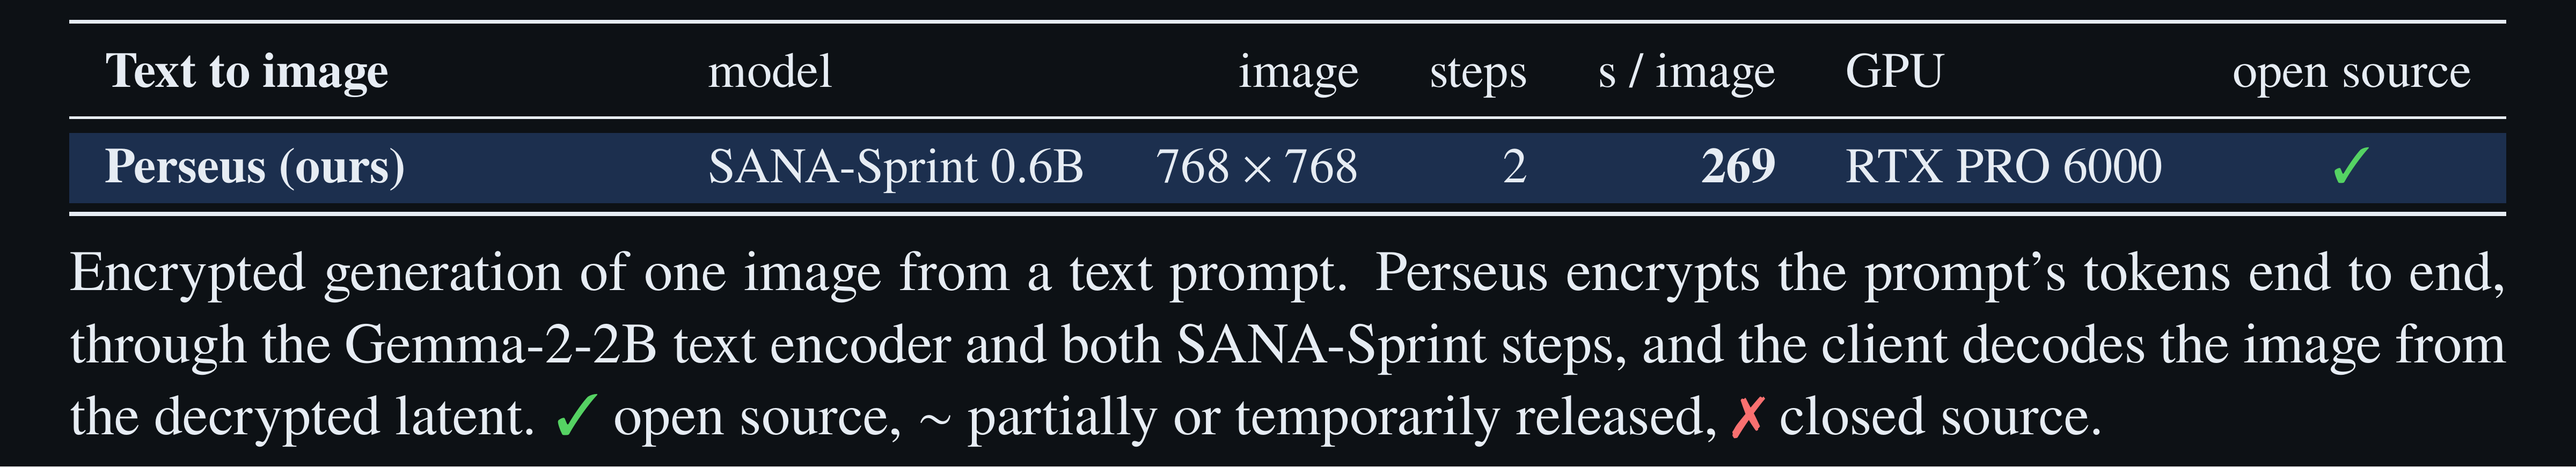
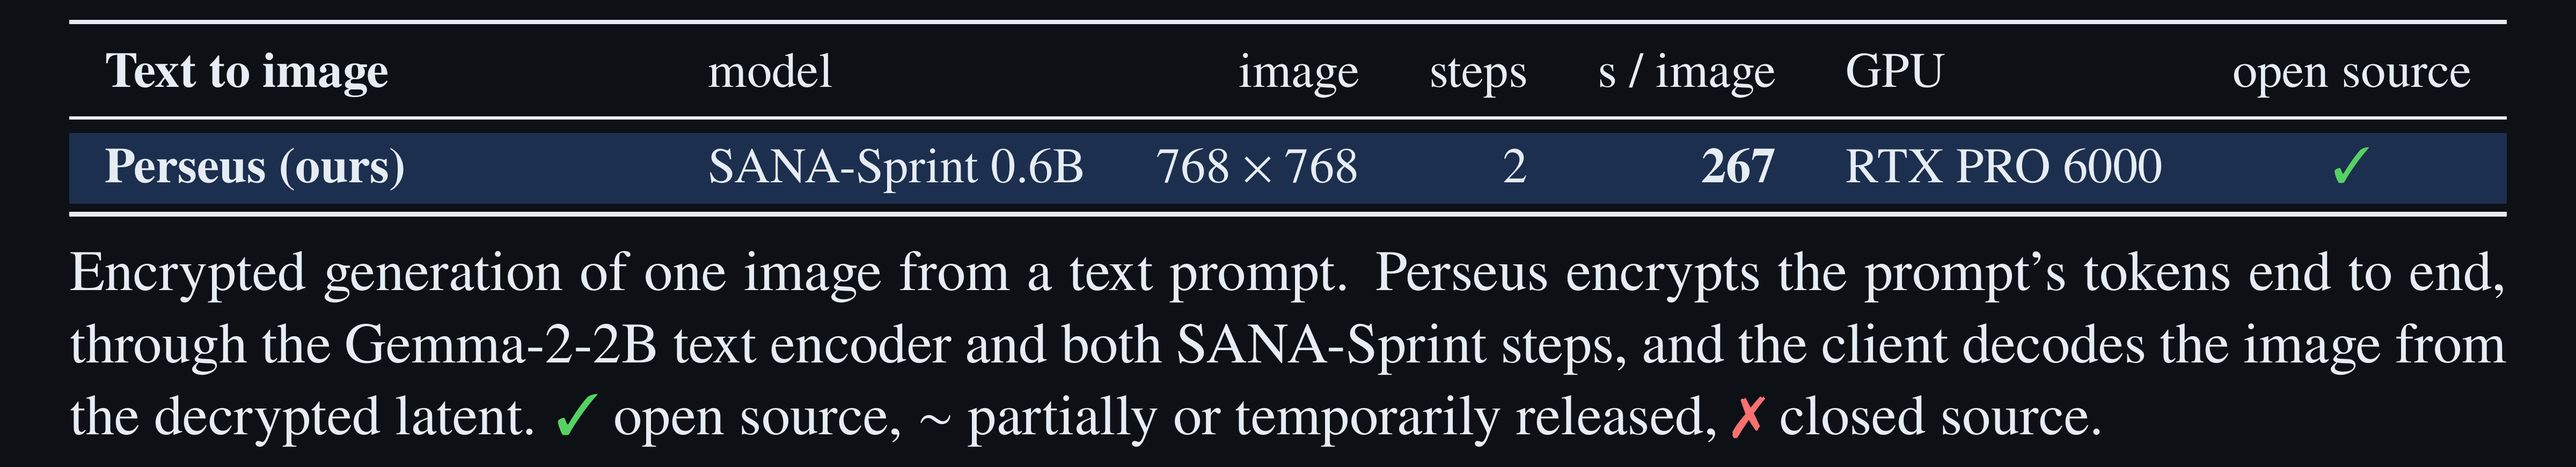
README: Gemma-2-2B table

Changed region(s): [[0.0, 0.992, 1.0, 1.0], [0.6562, 0.341, 0.6875, 0.372]]

diff --git a/assets/paper-tables.tex b/assets/paper-tables.tex
@@ -1,7 +1,7 @@
 % The paper's comparison tables for README.md (paper-org/main.tex, 10-19), one page per table, every table the full
 % line width. Render: bash assets/render.sh paper-tables, which writes paper-tables-<page>-{light,dark}.png in the order
 % of the pages line below. \darkmode switches the palette.
-% pages: overview llama gpt2 vit bert resnet sana core
+% pages: overview llama gemma gpt2 vit bert resnet sana core
 % border: 14pt left and right, 4pt top and bottom (stacked in the README, the tables sit close together)
 \documentclass[border={14pt 4pt 14pt 4pt},varwidth=17.2cm,multi=tbl]{standalone}
 \usepackage{newtxtext,newtxmath}
@@ -20,16 +20,19 @@
 % one isolated GPU; decode at a 512-token context, positions 500-511 after a 500-position plaintext prefix)
 \newcommand{\llamapf}{53.6}\newcommand{\llamadec}{6.86}\newcommand{\gptpf}{6.04}\newcommand{\gptdec}{1.70}
 \newcommand{\vitimg}{17.7}\newcommand{\bertin}{7.36}
-% SANA-Sprint text to image (sana-t2i branch check, 2026-11-13, GPU 4 alone: forwards 2 and 3, 269.06 and 269.13 s, after
-% a 333 s first forward; lowest free 17.01 GiB)
-\newcommand{\sanaimg}{269}\newcommand{\sanamem}{78.0}
 % ResNet-20 on CIFAR-10, the default plan resnet20_folded (scripts/repro/resnet20.sh, 2026-11-18, GPU 3 alone: 2 runs of
 % 64 test images, CUDA graphs, medians 0.320 and 0.322 s, 64/64 argmax agreement with the float64 model; peak used 35.5
 % GiB by nvidia-smi, free 59.58 GB after setup; top-1 on the first 1,000 test images 925, the float64 model's 925)
 \newcommand{\resnetimg}{0.321}\newcommand{\resnetmem}{35.5}\newcommand{\resnettop}{92.5}
+% Gemma-2-2B on the decoder port (2026-11-19, GPU 4 alone, 2 rounds): prefill 29.70 / 29.71 s (lowest free 14.49 GiB),
+% decode 5.494 / 5.485 s per token at positions 500-511 (plans gemma2_2b_decode_ctx512_w*)
+\newcommand{\gemmapf}{29.7}\newcommand{\gemmadec}{5.49}\newcommand{\gemmapfmem}{80.5}\newcommand{\gemmadecmem}{63.5}
+% SANA-Sprint text to image (2026-11-19, the text encoder on the Gemma-2 decoder port, GPU 4 alone: forwards 2 and 3,
+% 266.59 and 266.58 s, after a 318 s first forward; lowest free 18.30 GiB)
+\newcommand{\sanaimg}{267}\newcommand{\sanamem}{76.7}
 % peak GPU memory, GiB: total (94.97) minus the lowest free of the run (the prefills replay CUDA graphs, captured in
 % the first forward after setup); the decode rows at a short context (the repro scripts' 16 tokens), without the
-% optional position cache (PC_PT_CACHE=0), Llama's the GPU's peak used memory over the run (its runner reports no free
+% optional position cache (PC_PT_CACHE=0), Llama's and Gemma's the GPU's peak used memory over the run (their runner reports no free
 % memory)
 \newcommand{\llamapfmem}{85.1}\newcommand{\llamadecmem}{52.4}\newcommand{\gptpfmem}{59.3}\newcommand{\gptdecmem}{63.1}
 \newcommand{\vitmem}{68.1}\newcommand{\bertmem}{57.9}
@@ -55,6 +58,8 @@
 \midrule
 Llama-3-8B & prefill, 128-token prompt & \llamapfmem\ GiB & \textbf{\llamapf\ s} \\
 Llama-3-8B & decode, one token (512-token context) & \llamadecmem\ GiB\nt{\dagger} & \textbf{\llamadec\ s} \\
+Gemma-2-2B & prefill, 128-token prompt & \gemmapfmem\ GiB & \textbf{\gemmapf\ s} \\
+Gemma-2-2B & decode, one token (512-token context) & \gemmadecmem\ GiB\nt{\dagger} & \textbf{\gemmadec\ s} \\
 GPT-2 small & prefill, 128-token prompt & \gptpfmem\ GiB & \textbf{\gptpf\ s} \\
 GPT-2 small & decode, one token (512-token context) & \gptdecmem\ GiB\nt{\dagger} & \textbf{\gptdec\ s} \\
 ViT-B/16 & one $224\times224$ image & \vitmem\ GiB & \textbf{\vitimg\ s} \\
@@ -64,8 +69,8 @@ SANA-Sprint 0.6B & one $768\times768$ image from a text prompt & \sanamem\ GiB &
 \bottomrule
 \end{tabularx}
 \tcap{End to end on one NVIDIA RTX PRO 6000 (96 GB), 128-bit security. $^\dagger$Peak memory when decoding 16 tokens, the optional position cache off.
-Llama-3-8B streams its weights from host memory one block at a time, while GPT-2 small keeps its weights on the GPU.
-SANA-Sprint runs two steps with its Gemma-2-2B text encoder, both encrypted.}
+Llama-3-8B and Gemma-2-2B stream their weights from host memory one block at a time, while GPT-2 small keeps its weights
+on the GPU. SANA-Sprint runs two steps with its Gemma-2-2B text encoder, both encrypted.}
 \end{tbl}
 
 % Unlike the paper (two Llama tables, prefill and decode), the README shows one, in the GPT-2 table's layout.
@@ -94,6 +99,20 @@ decode (s / token) & AR-HE (Kanpak and Unat, 2026) & 32 & 1569.0\nt{\dagger} & H
 the context (decode). $^\dagger$Composed from per-block or per-operator timings, not run end to end; $^*$amortized over a
 batch; $^\S$replicated from the released code on our GPU. Perseus runs Llama-3.1-8B (the same architecture) end to end on
 one GPU. \legend}
+\end{tbl}
+
+\begin{tbl}
+\begin{tabularx}{\linewidth}{lXrrlc}
+\toprule
+ & \textbf{Gemma-2-2B} & tokens & latency & GPU & open source \\
+\midrule
+prefill (s) & \oc\textbf{Perseus (ours)} & \oc 128 & \oc\textbf{\gemmapf} & \oc RTX PRO 6000 & \oc\yes \\
+\cdashline{1-6}
+decode (s / token) & \oc\textbf{Perseus (ours)} & \oc 512 & \oc\textbf{\gemmadec} & \oc RTX PRO 6000 & \oc\yes \\
+\bottomrule
+\end{tabularx}
+\tcap{Encrypted Gemma-2-2B: prefill of a prompt and decode of one token; \emph{tokens} is the prompt length (prefill) or
+the context (decode). \legend}
 \end{tbl}
 
 \begin{tbl}

diff --git a/README.md b/README.md
@@ -1,6 +1,6 @@
 > [!NOTE]
 > **News.** Perseus now supports flow matching! Gemma-2-2B and SANA-Sprint 0.6B turn a text prompt into a
-> 768 × 768 image fully encrypted, in 269 s on one GPU, with the `perseus-t2i` command
+> 768 × 768 image fully encrypted, in 267 s on one GPU, with the `perseus-t2i` command
 > ([`examples/sana`](python/perseus/examples/sana)).
 
 <p align="center">
@@ -40,8 +40,8 @@ replays (its kernels descend from [FIDESlib32bits](https://github.com/gladia-res
 our 32-bit GPU port of [FIDESlib](https://github.com/CAPS-UMU/FIDESlib)).
 
 <p align="center">
-  <a href="assets/paper-tables-overview-light.png#gh-light-mode-only"><img src="assets/paper-tables-overview-light.png#gh-light-mode-only" alt="Perseus, encrypted, end to end on one RTX PRO 6000 with 128-bit security, and the peak GPU memory of each run (Llama-3-8B streams its weights from host memory, GPT-2 small keeps its weights on the GPU). Llama-3-8B prefill of a 128-token prompt 53.6 s (85.1 GiB), decode of one token at a 512-token context 6.86 s (52.4 GiB when decoding 16 tokens). GPT-2 small prefill 6.04 s (59.3 GiB), decode 1.70 s per token at a 512-token context (63.1 GiB when decoding 16 tokens). ViT-B/16 17.7 s per image (68.1 GiB). BERT-base 7.36 s for 128 tokens (57.9 GiB). ResNet-20 0.321 s per CIFAR-10 image (35.5 GiB). SANA-Sprint 0.6B, with its Gemma-2-2B text encoder, 269 s for one 768 × 768 image from a text prompt (78.0 GiB)." width="707"></a>
-  <a href="assets/paper-tables-overview-dark.png#gh-dark-mode-only"><img src="assets/paper-tables-overview-dark.png#gh-dark-mode-only" alt="Perseus, encrypted, end to end on one RTX PRO 6000 with 128-bit security, and the peak GPU memory of each run (Llama-3-8B streams its weights from host memory, GPT-2 small keeps its weights on the GPU). Llama-3-8B prefill of a 128-token prompt 53.6 s (85.1 GiB), decode of one token at a 512-token context 6.86 s (52.4 GiB when decoding 16 tokens). GPT-2 small prefill 6.04 s (59.3 GiB), decode 1.70 s per token at a 512-token context (63.1 GiB when decoding 16 tokens). ViT-B/16 17.7 s per image (68.1 GiB). BERT-base 7.36 s for 128 tokens (57.9 GiB). ResNet-20 0.321 s per CIFAR-10 image (35.5 GiB). SANA-Sprint 0.6B, with its Gemma-2-2B text encoder, 269 s for one 768 × 768 image from a text prompt (78.0 GiB)." width="707"></a>
+  <a href="assets/paper-tables-overview-light.png#gh-light-mode-only"><img src="assets/paper-tables-overview-light.png#gh-light-mode-only" alt="Perseus, encrypted, end to end on one RTX PRO 6000 with 128-bit security, and the peak GPU memory of each run (Llama-3-8B and Gemma-2-2B stream their weights from host memory, GPT-2 small keeps its weights on the GPU). Llama-3-8B prefill of a 128-token prompt 53.6 s (85.1 GiB), decode of one token at a 512-token context 6.86 s (52.4 GiB when decoding 16 tokens). Gemma-2-2B prefill 29.7 s (80.5 GiB), decode 5.49 s per token at a 512-token context (63.5 GiB when decoding 16 tokens). GPT-2 small prefill 6.04 s (59.3 GiB), decode 1.70 s per token at a 512-token context (63.1 GiB when decoding 16 tokens). ViT-B/16 17.7 s per image (68.1 GiB). BERT-base 7.36 s for 128 tokens (57.9 GiB). ResNet-20 0.321 s per CIFAR-10 image (35.5 GiB). SANA-Sprint 0.6B, with its Gemma-2-2B text encoder, 267 s for one 768 × 768 image from a text prompt (76.7 GiB)." width="707"></a>
+  <a href="assets/paper-tables-overview-dark.png#gh-dark-mode-only"><img src="assets/paper-tables-overview-dark.png#gh-dark-mode-only" alt="Perseus, encrypted, end to end on one RTX PRO 6000 with 128-bit security, and the peak GPU memory of each run (Llama-3-8B and Gemma-2-2B stream their weights from host memory, GPT-2 small keeps its weights on the GPU). Llama-3-8B prefill of a 128-token prompt 53.6 s (85.1 GiB), decode of one token at a 512-token context 6.86 s (52.4 GiB when decoding 16 tokens). Gemma-2-2B prefill 29.7 s (80.5 GiB), decode 5.49 s per token at a 512-token context (63.5 GiB when decoding 16 tokens). GPT-2 small prefill 6.04 s (59.3 GiB), decode 1.70 s per token at a 512-token context (63.1 GiB when decoding 16 tokens). ViT-B/16 17.7 s per image (68.1 GiB). BERT-base 7.36 s for 128 tokens (57.9 GiB). ResNet-20 0.321 s per CIFAR-10 image (35.5 GiB). SANA-Sprint 0.6B, with its Gemma-2-2B text encoder, 267 s for one 768 × 768 image from a text prompt (76.7 GiB)." width="707"></a>
 </p>
 
 ## What's inside
@@ -72,6 +72,9 @@ ours where the code is released.
   <a href="assets/paper-tables-llama-light.png#gh-light-mode-only"><img src="assets/paper-tables-llama-light.png#gh-light-mode-only" alt="Encrypted Llama-3-8B. Prefill of a 128-token prompt, seconds. MOAI 3592.0 on H200, NEXUS 829.0 on 4 A100, Euston 484.0, STIP 406.6 (composed timings, amortized over a batch); Odin 366.4 on H100; Cerium 347.5 (replicated on RTX PRO 6000); Sylph 116.0 (composed); Perseus 53.6 on RTX PRO 6000, open source. Decode of one token, seconds per token at a context size. AR-HE 1569.0 at 32, ROSETTA 311.0 at 512, Cachemir 97.0 at 512, Sylph 31.0 at 128 (all composed timings); Perseus 6.86 at 512 on RTX PRO 6000, open source." width="707"></a>
   <a href="assets/paper-tables-llama-dark.png#gh-dark-mode-only"><img src="assets/paper-tables-llama-dark.png#gh-dark-mode-only" alt="Encrypted Llama-3-8B. Prefill of a 128-token prompt, seconds. MOAI 3592.0 on H200, NEXUS 829.0 on 4 A100, Euston 484.0, STIP 406.6 (composed timings, amortized over a batch); Odin 366.4 on H100; Cerium 347.5 (replicated on RTX PRO 6000); Sylph 116.0 (composed); Perseus 53.6 on RTX PRO 6000, open source. Decode of one token, seconds per token at a context size. AR-HE 1569.0 at 32, ROSETTA 311.0 at 512, Cachemir 97.0 at 512, Sylph 31.0 at 128 (all composed timings); Perseus 6.86 at 512 on RTX PRO 6000, open source." width="707"></a>
   <br>
+  <a href="assets/paper-tables-gemma-light.png#gh-light-mode-only"><img src="assets/paper-tables-gemma-light.png#gh-light-mode-only" alt="Encrypted Gemma-2-2B. Perseus prefill of a 128-token prompt 29.7 s, decode of one token 5.49 s at a 512-token context, on RTX PRO 6000, open source." width="707"></a>
+  <a href="assets/paper-tables-gemma-dark.png#gh-dark-mode-only"><img src="assets/paper-tables-gemma-dark.png#gh-dark-mode-only" alt="Encrypted Gemma-2-2B. Perseus prefill of a 128-token prompt 29.7 s, decode of one token 5.49 s at a 512-token context, on RTX PRO 6000, open source." width="707"></a>
+  <br>
   <a href="assets/paper-tables-gpt2-light.png#gh-light-mode-only"><img src="assets/paper-tables-gpt2-light.png#gh-light-mode-only" alt="Encrypted GPT-2 small. AR-HE 128-token prefill 18520.0 s, decode 544.0 s per token at context 33. ROSETTA decode 78.6 s at 512 (composed). EncryptedLLM decode 68.0 s at 128. Perseus prefill 6.04 s, decode 1.70 s per token at context 512, on RTX PRO 6000, open source." width="707"></a>
   <a href="assets/paper-tables-gpt2-dark.png#gh-dark-mode-only"><img src="assets/paper-tables-gpt2-dark.png#gh-dark-mode-only" alt="Encrypted GPT-2 small. AR-HE 128-token prefill 18520.0 s, decode 544.0 s per token at context 33. ROSETTA decode 78.6 s at 512 (composed). EncryptedLLM decode 68.0 s at 128. Perseus prefill 6.04 s, decode 1.70 s per token at context 512, on RTX PRO 6000, open source." width="707"></a>
   <br>
@@ -84,8 +87,8 @@ ours where the code is released.
   <a href="assets/paper-tables-resnet-light.png#gh-light-mode-only"><img src="assets/paper-tables-resnet-light.png#gh-light-mode-only" alt="Encrypted ResNet-20 inference of one 32 × 32 CIFAR-10 image, seconds, and top-1 on the CIFAR-10 test set. Orion 618.2 on one CPU thread, open source; Cheddar 0.72 on RTX 5090, 91.95%, library released, ResNet-20 not; Cerium 0.456 on B200 (0.620 on H100, from the paper), 91.4%; Perseus 0.321 on RTX PRO 6000, 92.5% on the first 1,000 test images (the same as its float64 model), open source." width="707"></a>
   <a href="assets/paper-tables-resnet-dark.png#gh-dark-mode-only"><img src="assets/paper-tables-resnet-dark.png#gh-dark-mode-only" alt="Encrypted ResNet-20 inference of one 32 × 32 CIFAR-10 image, seconds, and top-1 on the CIFAR-10 test set. Orion 618.2 on one CPU thread, open source; Cheddar 0.72 on RTX 5090, 91.95%, library released, ResNet-20 not; Cerium 0.456 on B200 (0.620 on H100, from the paper), 91.4%; Perseus 0.321 on RTX PRO 6000, 92.5% on the first 1,000 test images (the same as its float64 model), open source." width="707"></a>
   <br>
-  <a href="assets/paper-tables-sana-light.png#gh-light-mode-only"><img src="assets/paper-tables-sana-light.png#gh-light-mode-only" alt="Encrypted generation of one image from a text prompt, seconds. Perseus, SANA-Sprint 0.6B with its Gemma-2-2B text encoder, 768 × 768, 2 steps, 269 on RTX PRO 6000, encrypted end to end, open source." width="707"></a>
-  <a href="assets/paper-tables-sana-dark.png#gh-dark-mode-only"><img src="assets/paper-tables-sana-dark.png#gh-dark-mode-only" alt="Encrypted generation of one image from a text prompt, seconds. Perseus, SANA-Sprint 0.6B with its Gemma-2-2B text encoder, 768 × 768, 2 steps, 269 on RTX PRO 6000, encrypted end to end, open source." width="707"></a>
+  <a href="assets/paper-tables-sana-light.png#gh-light-mode-only"><img src="assets/paper-tables-sana-light.png#gh-light-mode-only" alt="Encrypted generation of one image from a text prompt, seconds. Perseus, SANA-Sprint 0.6B with its Gemma-2-2B text encoder, 768 × 768, 2 steps, 267 on RTX PRO 6000, encrypted end to end, open source." width="707"></a>
+  <a href="assets/paper-tables-sana-dark.png#gh-dark-mode-only"><img src="assets/paper-tables-sana-dark.png#gh-dark-mode-only" alt="Encrypted generation of one image from a text prompt, seconds. Perseus, SANA-Sprint 0.6B with its Gemma-2-2B text encoder, 768 × 768, 2 steps, 267 on RTX PRO 6000, encrypted end to end, open source." width="707"></a>
 </p>
 
 Times exclude key generation, encryption and decryption; each model runs its default plan
